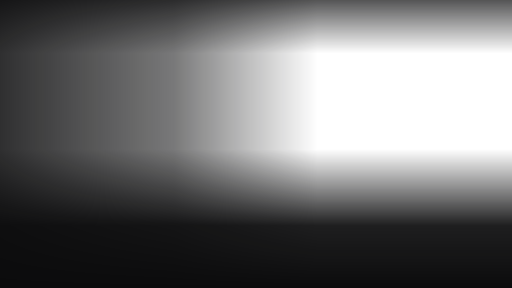
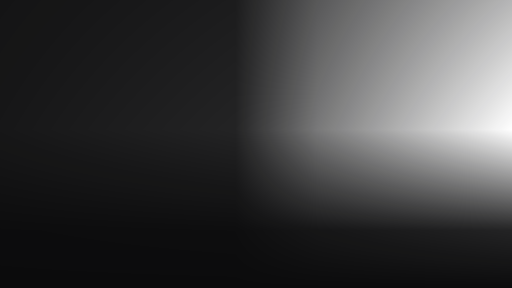
Match hero masks to the pinned full-width contrast stops (Refs #103)

diff --git a/tests/remote/hero-layering.spec.ts b/tests/remote/hero-layering.spec.ts
@@ -64,7 +64,9 @@ for (const canvas of [false, true]) test(`bright hero keeps its scrim below prep
   expect(paint.findIndex(n => n.src === background)).toBeLessThan(paint.findIndex(n => n.mask));
   expect(paint.findIndex(n => n.mask)).toBeLessThan(paint.findIndex(n => n.src === logo));
   // Flat white deliberately exercises the brightest possible artwork behind synopsis and shelf labels.
-  expect(Math.max(...await pixel(page, 80, 550))).toBeLessThan(65);
+  expect(Math.max(...await pixel(page, 80, 550))).toBeLessThan(45);
+  // The full 800px synopsis column must stay dark, including its right edge.
+  expect(Math.max(...await pixel(page, 850, 550))).toBeLessThan(45);
   expect(Math.max(...await pixel(page, 80, 750))).toBeLessThan(65);
   const shownLogo = (await images()).find(n => n.src === logo && n.alpha > .99)!;
   const logoPixel = await pixel(page, Math.round(shownLogo.x + shownLogo.w / 2), Math.round(shownLogo.y + shownLogo.h / 2));

diff --git a/src/tv-solid/remote/tv-artwork.generated.ts b/src/tv-solid/remote/tv-artwork.generated.ts
@@ -7,7 +7,7 @@ export function welcomeWallSource() {
 export function backdropScrimSource() {
   return typeof (globalThis as any).__SolidTVRokuRenderer !== "undefined"
     ? "pkg:/assets/hero-scrim.png"
-    : `${import.meta.env.BASE_URL}tv-artwork/aa0b61ccc544e76a7e18.png`;
+    : `${import.meta.env.BASE_URL}tv-artwork/87b1f851442b89b94153.png`;
 }
 export function topbarScrimSource() {
   return typeof (globalThis as any).__SolidTVRokuRenderer !== "undefined"

diff --git a/scripts/build-tv-masks.py b/scripts/build-tv-masks.py
@@ -13,10 +13,16 @@ mask = Image.new("RGBA", (512, 288))
 for y in range(mask.height):
     for x in range(mask.width):
         px, py = (x + .5) / 512 * 1920, (y + .5) / 288 * 1080
-        left = .85 - .3 * px / 652.8 if px < 652.8 else .55 * (1 - (px - 652.8) / 537.6) if px < 1190.4 else 0
-        bottom = 0 if py < 560 else .92 * (py - 560) / 286 if py < 846 else .92 + .08 * (py - 846) / 234
-        top = .7 * (1 - py / 200) if py < 200 else 0
-        mask.putpixel((x, y), (11, 11, 12, round((1 - (1-left) * (1-bottom) * (1-top)) * 255)))
+        # Pinned TV hero contrast: wide 95%, 90% at 46%, 55% at 62%, clear;
+        # tall 30%, clear at 45%, 90% at 80%, ground. Composite once so the
+        # same mask protects every backdrop without tinting foreground art.
+        left = (.95 - .05 * px / 883.2 if px < 883.2 else
+                .90 - .35 * (px - 883.2) / 307.2 if px < 1190.4 else
+                .55 * (1 - (px - 1190.4) / 729.6))
+        vertical = (.30 * (1 - py / 486) if py < 486 else
+                    .90 * (py - 486) / 378 if py < 864 else
+                    .90 + .10 * (py - 864) / 216)
+        mask.putpixel((x, y), (11, 11, 12, round((1 - (1-left) * (1-vertical)) * 255)))
 save("hero-scrim.png", mask)
 
 top = Image.new("RGBA", (480, 33))

diff --git a/TESTING.md b/TESTING.md
@@ -4029,3 +4029,12 @@ first/replacement artwork after the former deadline, and abandoned callbacks.
 Production integrity/type/build checks and 29 targeted unit cases pass. Native
 retirement units verify both opacity completion orders and cancellation; no new
 physical-device or native pixel qualification is implied.
+
+The procedural hero mask now matches the pinned TV wide and tall contrast stops.
+Regeneration uses `scripts/build-tv-artwork.py`, updating both packaged/browser
+PNGs and their source/output hashes. Additional WebGL/Canvas pixels verify the
+right edge of the 800px synopsis column over white artwork stays below 45 per
+channel. Mask composition at (850,550) changes from approximately 170 with the
+former stops to 31 with the pinned stops; (80,550) is approximately 22. Both bright
+hero browser cases and the full production integrity/type/build checks pass with
+the regenerated assets. Logo and portrait pixels remain undimmed in both renderers.
